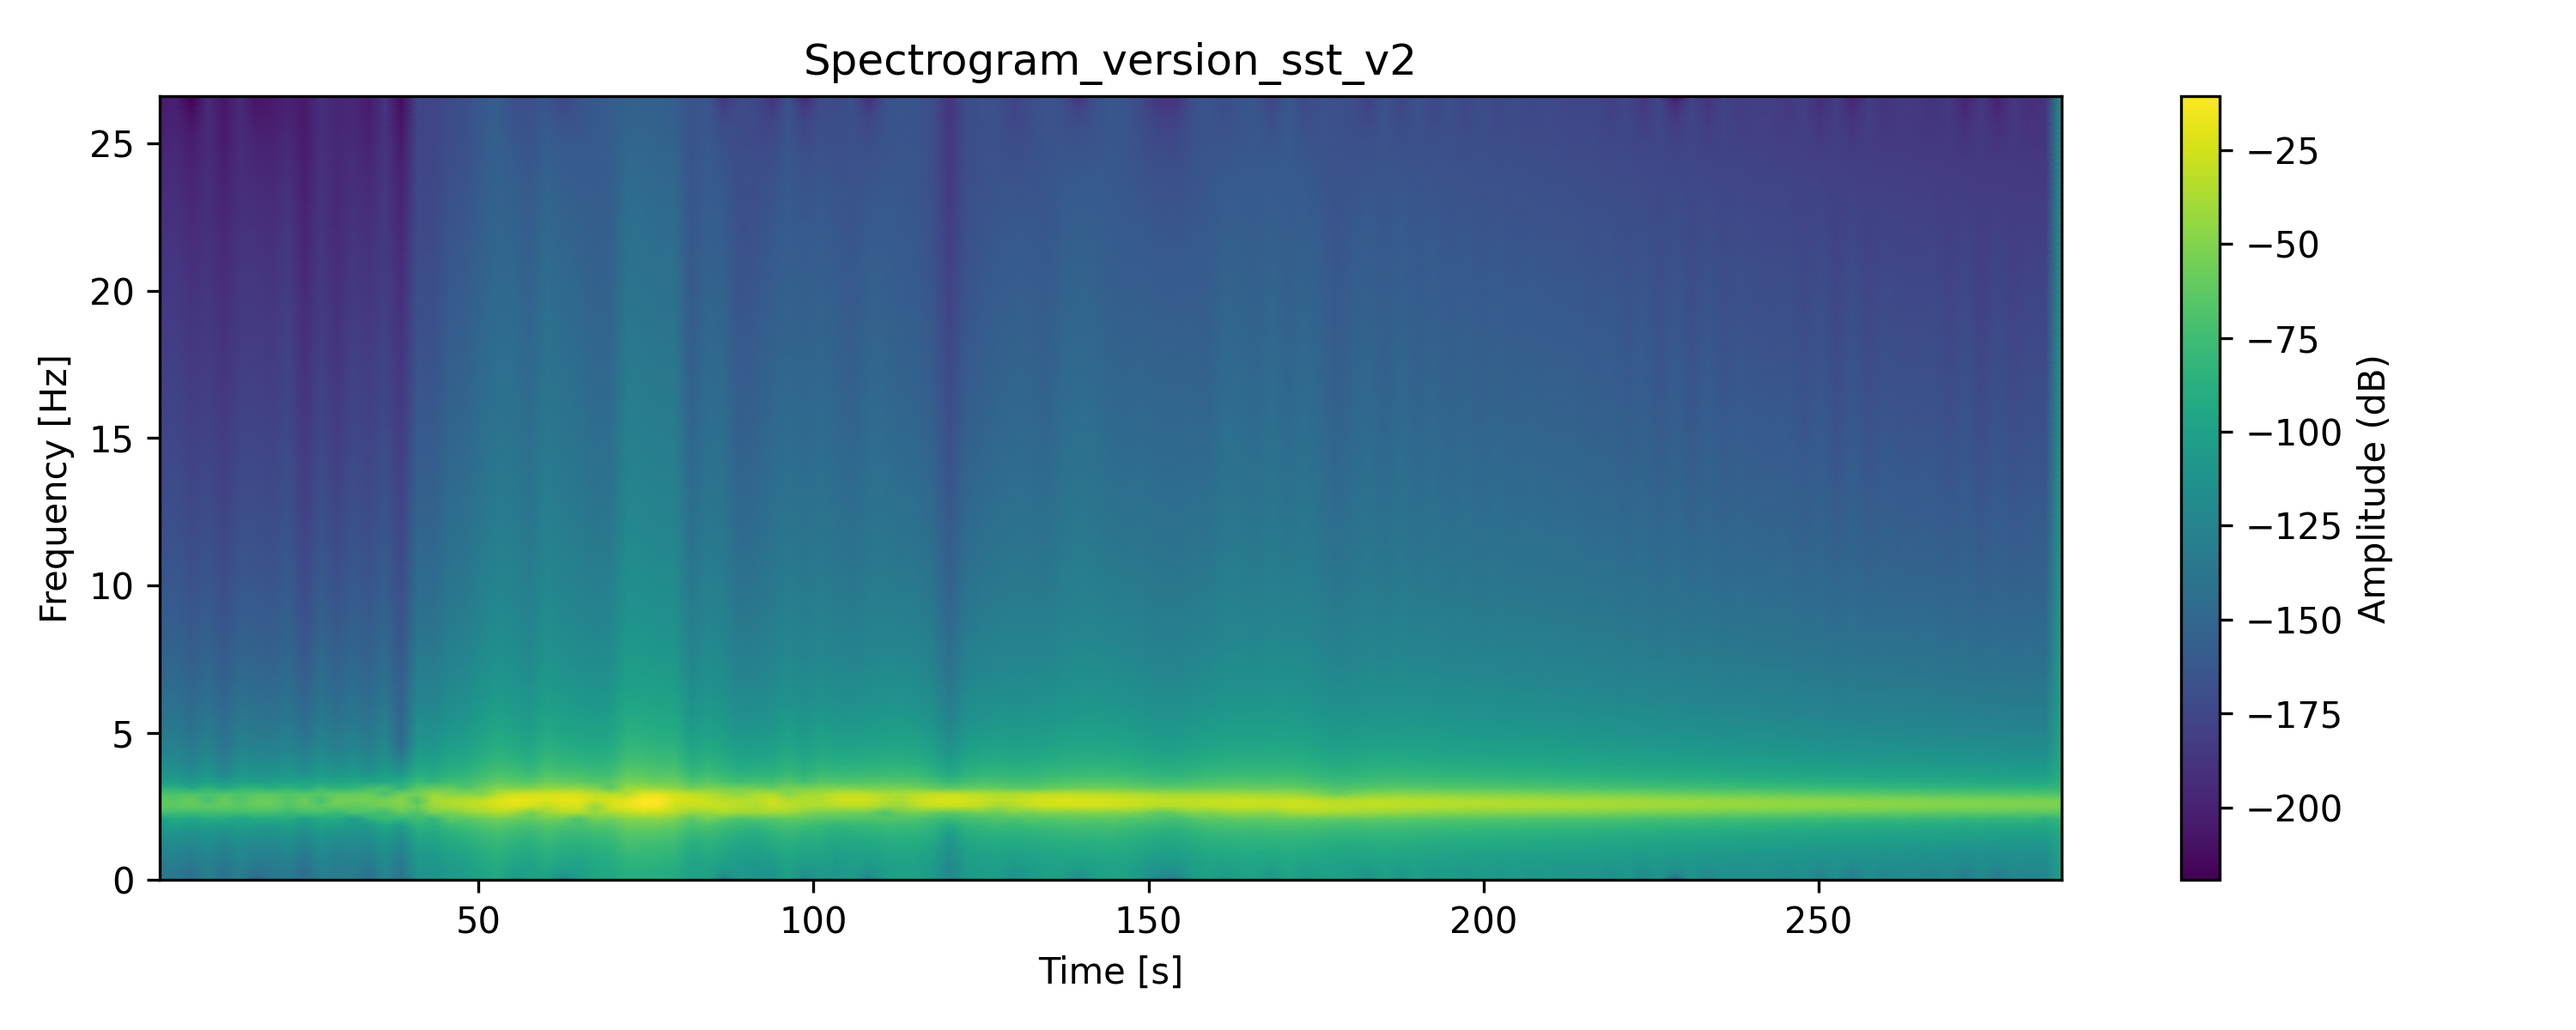
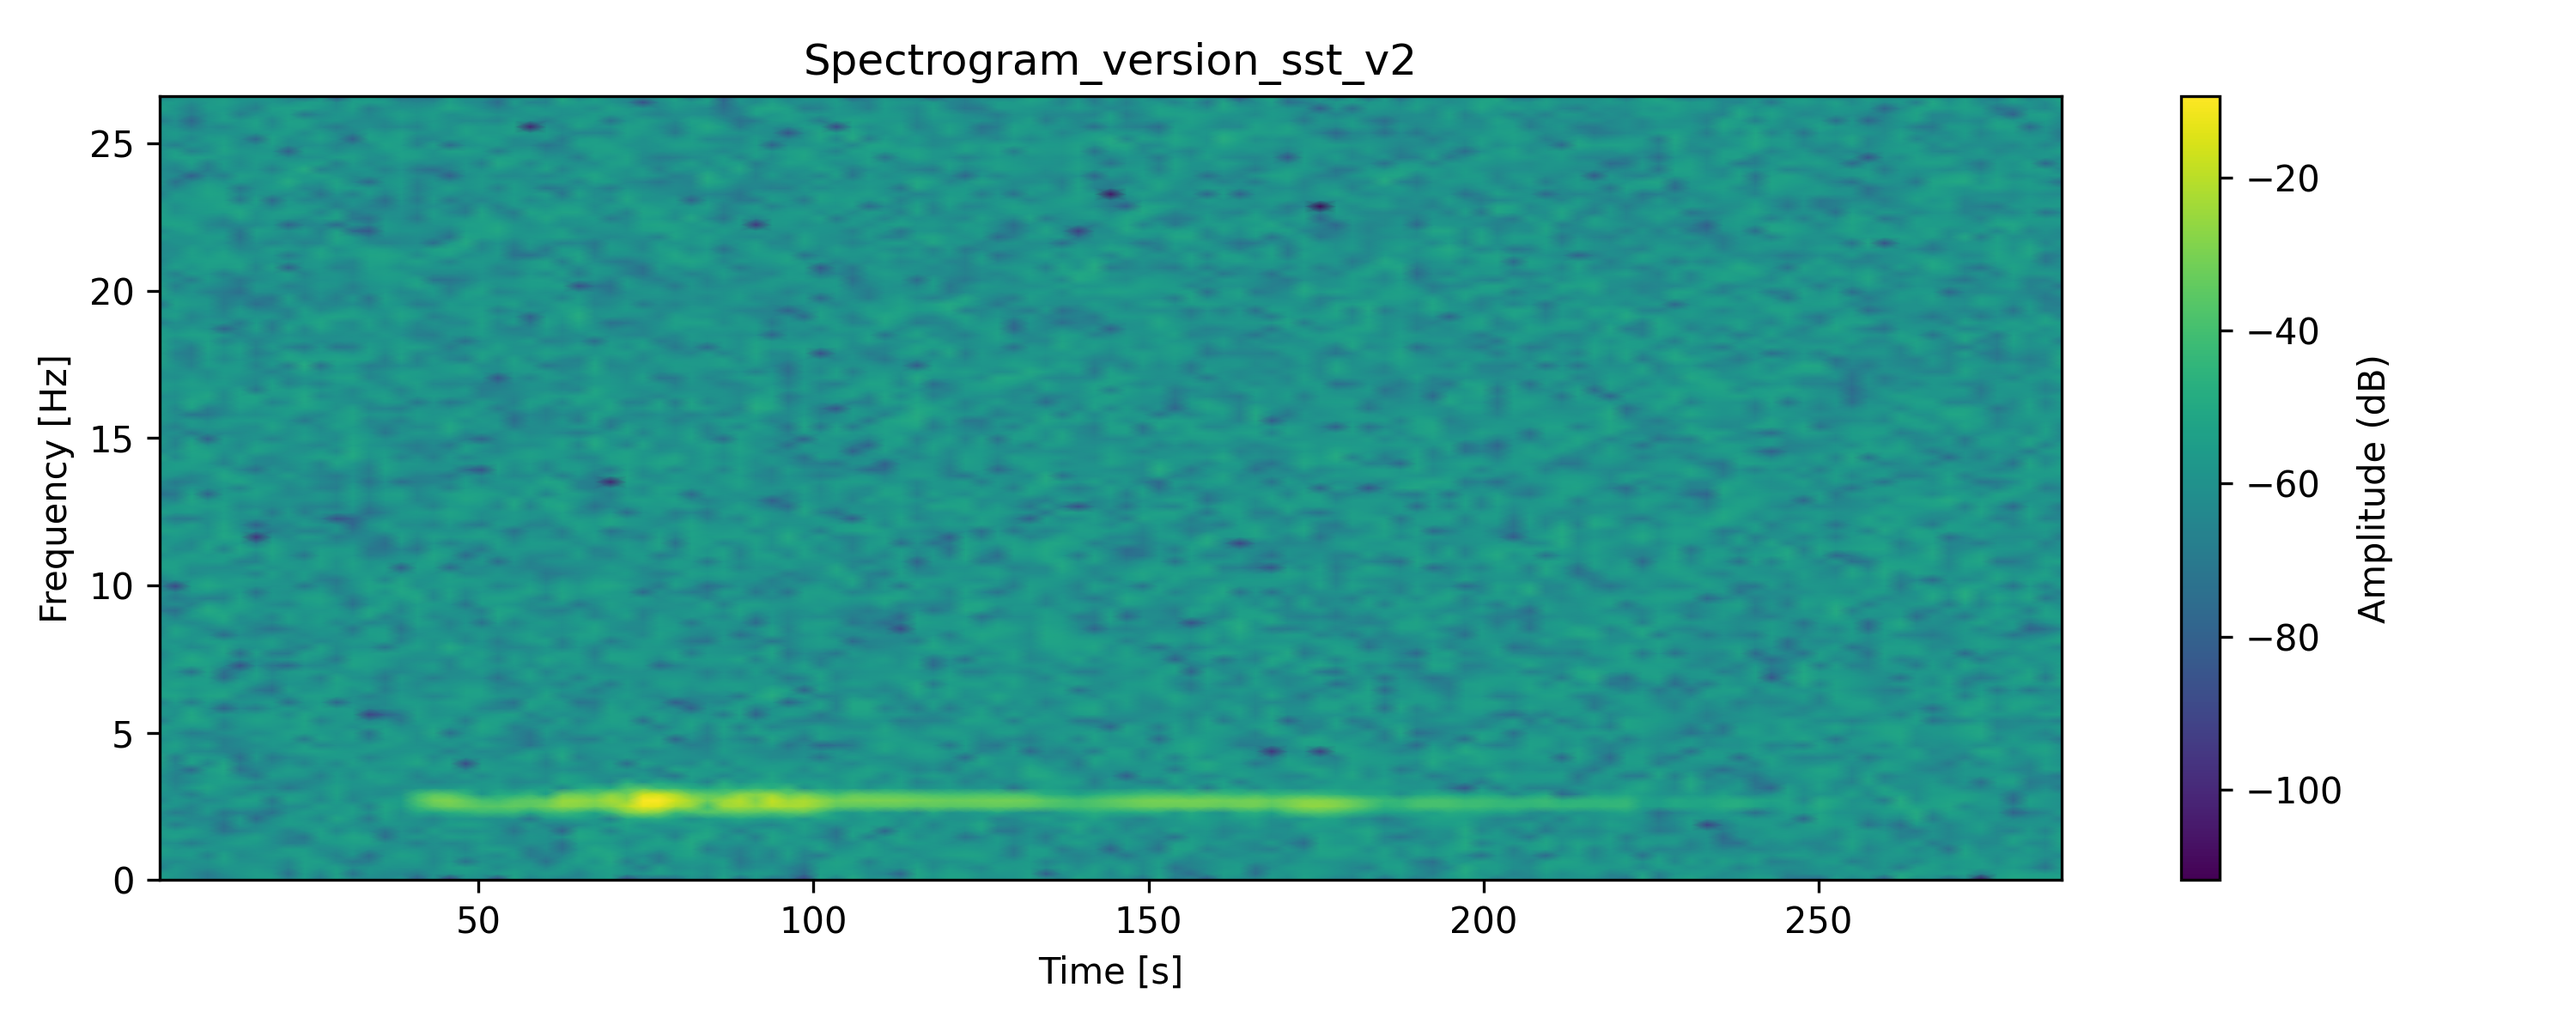
tfr

diff --git a/Despair.py b/Despair.py
@@ -21,9 +21,18 @@ all_modes_harmonic = ["S0 Propagated signal (nm)", "S1 Propagated signal (nm)", 
 all_modes_base = ["S0 Propagated signal (nm)", "S1 Propagated signal (nm)", "S2 Propagated signal (nm)", "S3 Propagated signal (nm)",
                   "A0 Propagated signal (nm)", "A1 Propagated signal (nm)", "A2 Propagated signal (nm)", "A3 Propagated signal (nm)",
                   "A4 Propagated signal (nm)"]
-all_time_stamp200_harmonic = {"S1": 68.4808,  "S2": 76.5127, "A4": 93.4223  , "S4": 64.9935, "A2": 71.7798, "S0": 70.7973, "A0": 70.7951, "A1": 66.3644, "A3": 82.2203,
-                 "A5": 52.0663, "A6": 66.8718, "A7": 68.4287, "S3": 90.1157, "S5": 40.8027, "S6": 59.2187, "S7": 148.571, "S8": 125.379}
-
+all_time_stamp200_base = {"S2": 46.9173,  "S3": 58.3698,  "A0": 70.4733, "S0": 71.1597,  "A1": 72.0227,  "A3": 78.9802,  "A2": 85.0981,  "S1": 85.6671}
+all_time_stamp200_harmonic = {"S1": 68.4843,  "S2": 76.5262, "A4": 91.8005  , "S4": 64.8534, "A2": 71.7873, "S0": 70.7973, "A0": 70.7951, "A1": 66.4039, "A3": 83.1089,
+                 "A5": 50.7399, "A6": 73.3755, "A7": 71.8784, "S3": 91.1849, "S5": 42.8571, "S6": 58.9979, "S7": 168.058, "S8": 188.394}
+all_time_stamp250_base = {"S2": 58.6466,  "S3": 72.9622,  "A0": 88.0916,  "S0": 88.9496,  "A1": 90.0284,  "A3": 98.7252,  "A2": 106.373,  "S1": 107.084}
+all_time_stamp250_harmonic = {"S5": 53.5714,  "A5": 63.4248,  "S6": 73.7474,  "S4": 81.0668,  "A1": 83.0049,  "S1": 85.6053,  "A0": 88.4938, "S0": 88.4967, 
+                              "A2": 89.7341,  "A7": 89.8481,  "A6": 91.7193,  "S2": 95.6578,  "A3": 103.886,  "S3": 113.981,  "A4": 114.751,  "S7": 210.072,  "S8": 235.493}
+all_time_stamp300_base = {"S2": 70.3759,  "S3": 87.5547,  "A0": 105.71,  "S0": 106.74,  "A1": 108.034,  "A3": 118.47,  "A2": 127.647,  "S1": 128.501}
+all_time_stamp300_harmonic = {"S5": 64.2857,  "A5": 76.1098,  "S6": 88.4968,  "S4": 97.2801,  "A1": 99.6058,  "S1": 102.726,  "A0": 106.193,  "S0": 106.196,  "A2": 107.681,  
+                              "A7": 107.818,  "A6": 110.063,  "S2": 114.789,  "A3": 124.663,  "S3": 136.777,  "A4": 137.701,  "S7": 252.087,  "S8": 282.591}
+all_time_stamp350_base = {"S2": 82.1053,  "S3": 102.147,  "A0": 123.328,  "S0": 124.529,  "A1": 126.04,  "A3": 138.215,  "A2": 148.922,  "S1": 149.917}
+all_time_stamp350_harmonic = {"S5": 75.00,  "A5": 88.7948,  "S6": 103.246,  "S4": 113.493,  "A1": 116.207,  "S1": 119.847,  "A0": 123.891,  "S0": 123.895,  "A2": 125.628, 
+                              "A7": 125.787,  "A6": 128.407,  "S2": 133.921,  "A3": 145.441,  "S3": 159.574,  "A4": 160.651,  "S7": 294.101,  "S8": 329.69}
 
 
 '''
@@ -141,13 +150,18 @@ def The_Function(noise_start, noise_level_step,noise_stop, beta_start, beta_step
                 upper_env, lower_env, mean_env = d.sift(Recon_base_H)
                 result_base_H = d.align_to_envelope_with_time(mean_env, t, time_stamp_base)
                 result_base_H["scale"] = second_scale
+                result_base_H["reconstruction"] = Recon_base_H
+                result_base_H["t"] = t
 
                 upper_env, lower_env, mean_env = d.sift(Recon_harmonic_H)
                 result_harmonic_H = d.align_to_envelope_with_time(mean_env, t, time_stamp_harmonic)
                 result_harmonic_H["scale"] = second_scale
+                result_harmonic_H["reconstruction"] = Recon_harmonic_H
+                result_harmonic_H["t"] = t
 
                 Result_base_H[plot_name_H] = result_base_H
                 Result_harmonic_H[plot_name_H] = result_harmonic_H
+                
 
                 t1 = time.perf_counter()
 
@@ -161,10 +175,14 @@ def The_Function(noise_start, noise_level_step,noise_stop, beta_start, beta_step
                 upper_env, lower_env, mean_env = d.sift(Recon_base_W)
                 result_base_W = d.align_to_envelope_with_time(mean_env, t, time_stamp_base)
                 result_base_W["scale"] = second_scale
+                result_base_W["reconstruction"] = Recon_base_W
+                result_base_W["t"] = t
 
                 upper_env, lower_env, mean_env = d.sift(Recon_harmonic_W)
                 result_harmonic_W = d.align_to_envelope_with_time(mean_env, t, time_stamp_harmonic)
                 result_harmonic_W["scale"] = second_scale
+                result_harmonic_W["reconstruction"] = Recon_harmonic_W
+                result_harmonic_W["t"] = t
 
                 Result_base_W[plot_name_W] = result_base_W
                 Result_harmonic_W[plot_name_W] = result_harmonic_W
@@ -204,7 +222,7 @@ def time_eval(Result_base_H, Result_harmonic_H ,Result_base_W, Result_harmonic_W
         time_base = []
         for element in Result_base_H[instance]:
              
-            if element == "scale":
+            if element == "scale" or  element == "reconstruction" or element == "t" :
                 continue
             if element is None:
                 continue
@@ -220,7 +238,7 @@ def time_eval(Result_base_H, Result_harmonic_H ,Result_base_W, Result_harmonic_W
         time_base = []
         for element in Result_base_W[instance]:
              
-            if element == "scale":
+            if element == "scale" or  element == "reconstruction" or element == "t":
                 continue
             if element is None:
                 continue
@@ -236,7 +254,7 @@ def time_eval(Result_base_H, Result_harmonic_H ,Result_base_W, Result_harmonic_W
         time_base = []
         for element in Result_base_S[instance]:
              
-            if element == "scale":
+            if element == "scale" or  element == "reconstruction" or element == "t":
                 continue
             if element is None:
                 continue
@@ -252,7 +270,7 @@ def time_eval(Result_base_H, Result_harmonic_H ,Result_base_W, Result_harmonic_W
         time_base = []
         for element in Result_harmonic_H[instance]:
              
-            if element == "scale":
+            if element == "scale" or  element == "reconstruction" or element == "t":
                 continue
             if element is None:
                 continue
@@ -267,7 +285,7 @@ def time_eval(Result_base_H, Result_harmonic_H ,Result_base_W, Result_harmonic_W
         time_base = []
         for element in Result_harmonic_W[instance]:
              
-            if element == "scale":
+            if element == "scale" or  element == "reconstruction" or element == "t":
                 continue
             if element is None:
                 continue
@@ -282,7 +300,7 @@ def time_eval(Result_base_H, Result_harmonic_H ,Result_base_W, Result_harmonic_W
         time_base = []
         for element in Result_harmonic_S[instance]:
              
-            if element == "scale":
+            if element == "scale" or  element == "reconstruction" or element == "t":
                 continue
             if element is None:
                 continue

diff --git a/Mains/main_Hilbert_Huang.py b/Mains/main_Hilbert_Huang.py
@@ -37,7 +37,7 @@ modes_base = ["S0 Propagated signal (nm)", "S1 Propagated signal (nm)", "S2 Prop
 time_stamp_harmonic = {"S1": 68.4808,  "S2": 76.5127, "A4": 91.8515  , "S4": 64.9935, "A2": 71.7798, "S0": 70.7973, "A0": 70.7951}
 time_stamp_base = {"S1": 68.4808,  "S2": 76.5127, "A4": 91.8515  , "S4": 64.9935, "A2": 71.7798, "S0": 70.7973, "A0": 70.7951}
 
-noise_level = 0 #Noise Level: 0 == 0%, 1.5 == 150%, should not be larger than 1.5
+noise_level = 1.5 #Noise Level: 0 == 0%, 1.5 == 150%, should not be larger than 1.5
 beta = 6
 
 # Modes around which the beta parameter is taken, copy-paste from lists above
@@ -108,6 +108,7 @@ fig, ax = plt.subplots(2, 1)
 ax[0].plot(t, Recon_base_H)
 ax[0].set_title("Base Reconstruction")
 
+
 ax[1].plot(t, Recon_harmonic_H)
 ax[1].set_title("Harmonic Reconstruction")
 
@@ -115,6 +116,9 @@ plt.tight_layout()
 plt.show()
 
 
+imfs, residue = Hilbert_Huang_processing .emd(Recon_harmonic_H)
+inst_amp, inst_freq = Hilbert_Huang_processing .hilbert_analysis(imfs, fs)
+fig, ax, H, T, F = Hilbert_Huang_processing.plot_hilbert_spectrum(inst_freq, inst_amp, t, fs, log_amplitude=log_amplitude, f_bins=f_bins ,t_bins=t_bins, name= plot_name)
 
 
 

diff --git a/Mains/main_wavelet.py b/Mains/main_wavelet.py
@@ -44,7 +44,7 @@ modes_base = ["S0 Propagated signal (nm)", "S1 Propagated signal (nm)", "S2 Prop
 time_stamp_harmonic = {"S1": 68.4808,  "S2": 76.5127, "A4": 91.8515  , "S4": 64.9935, "A2": 71.7798, "S0": 70.7973, "A0": 70.7951}
 time_stamp_base = {"S1": 68.4808,  "S2": 76.5127, "A4": 91.8515  , "S4": 64.9935, "A2": 71.7798, "S0": 70.7973, "A0": 70.7951}
 
-noise_level = 1.5 #Noise Level: 0 == 0%, 1.5 == 150%, should not be larger than 1.5
+noise_level = 0 #Noise Level: 0 == 0%, 1.5 == 150%, should not be larger than 1.5
 beta = 6
 
 # Modes around which the beta parameter is taken, copy-paste from lists above
@@ -101,3 +101,5 @@ ax[1].set_title("Harmonic Reconstruction")
 
 plt.tight_layout()
 plt.show()
+print(max(signal))
+print(max(Recon_harmonic_W))

diff --git a/Amplitude_conservation.py b/Amplitude_conservation.py
@@ -1,0 +1,4 @@
+import numpy as np
+import pandas as pd
+from preprocess import get_data
+import matplotlib.pyplot as plt  
